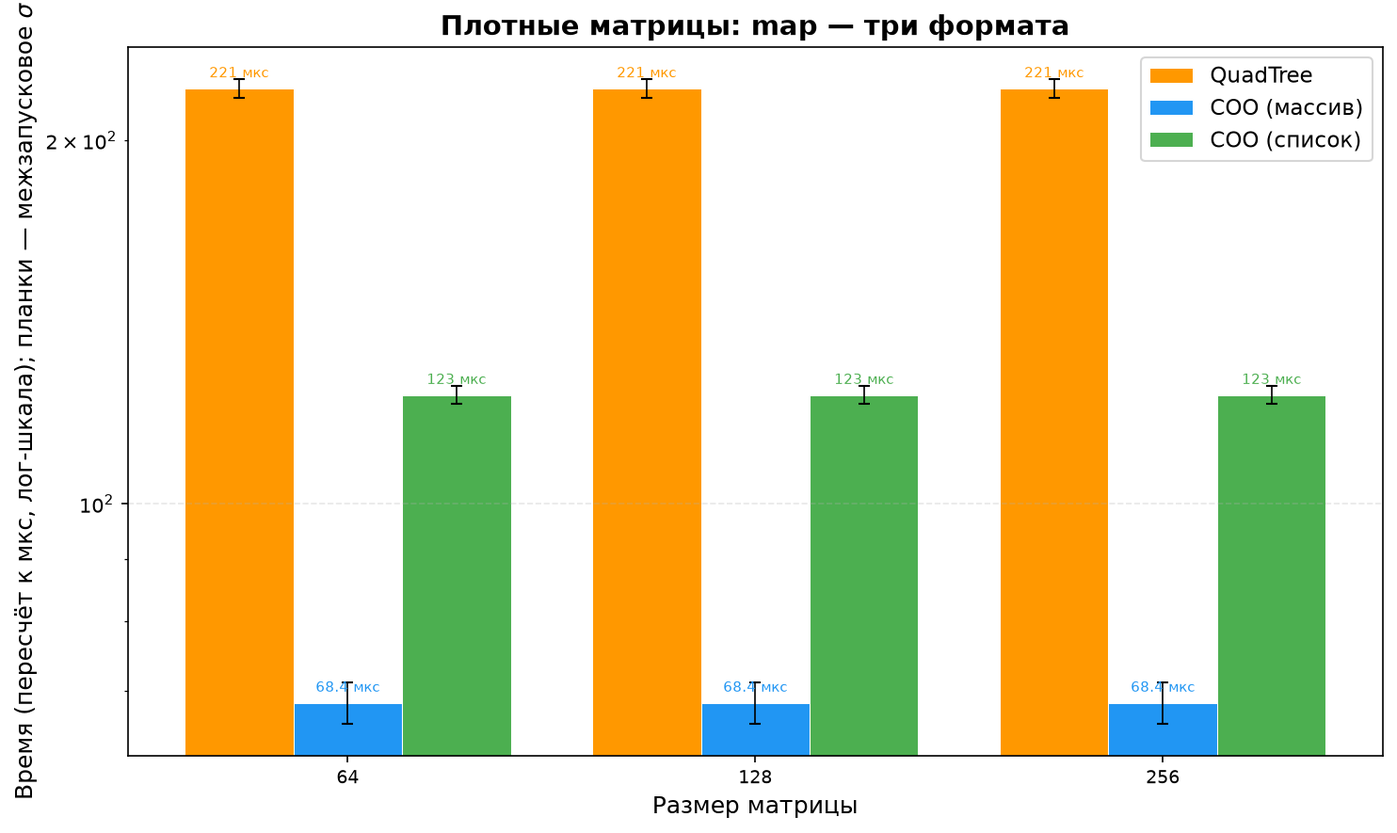
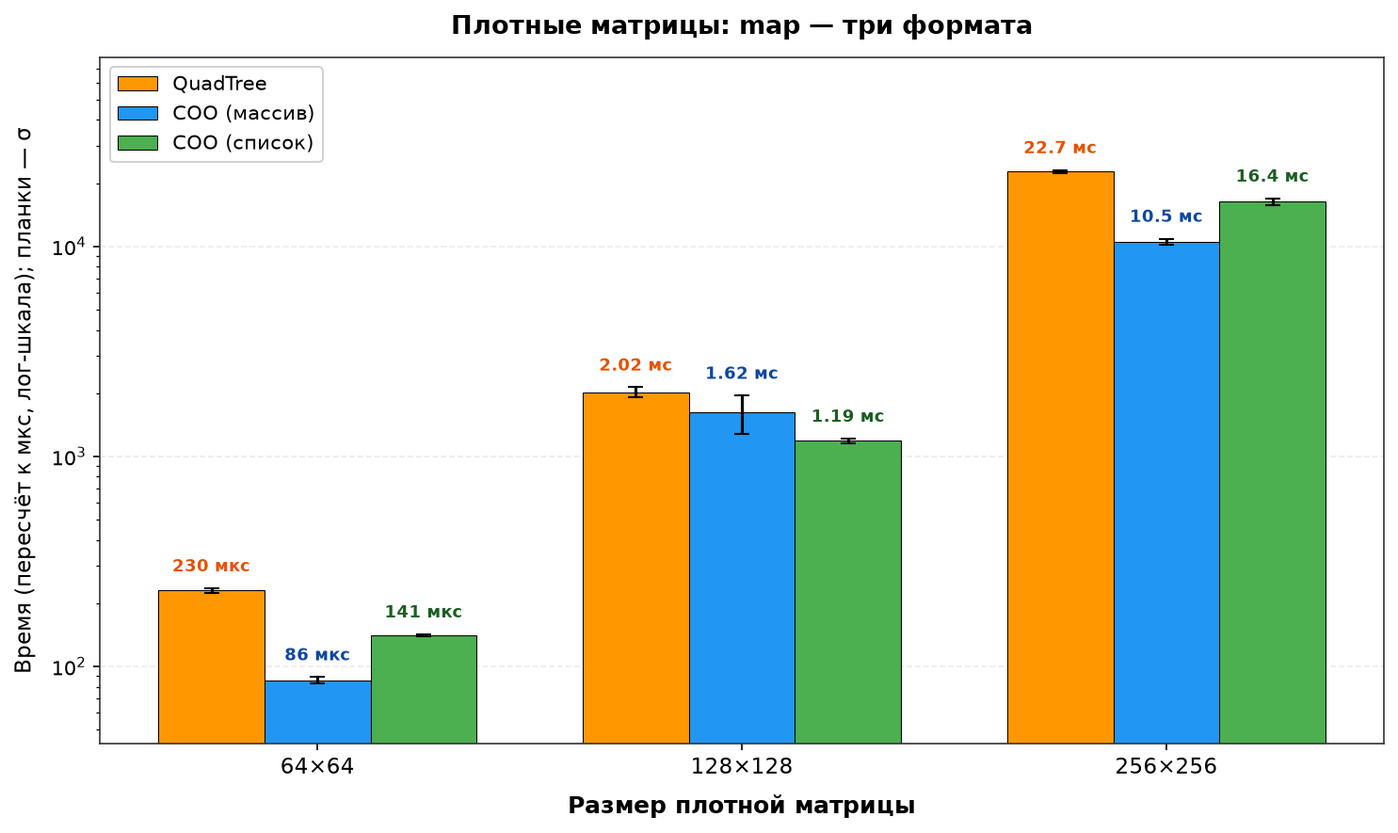
docs: update practice report and benchmark figures

Changed region(s): [[0.0, 0.0, 0.9919, 0.9763], [0.062, 0.5797, 0.093, 0.6407], [0.062, 0.3051, 0.093, 0.3356]]

diff --git a/Sergej_Narysev/Sergej_Narysev_report.tex b/Sergej_Narysev/Sergej_Narysev_report.tex
@@ -1,4 +1,4 @@
-\documentclass[a4paper]{article}
+\documentclass[a4paper]{article}
 
 \usepackage[a4paper, top=8mm, bottom=8mm, left=8mm, right=8mm]{geometry}
 \usepackage{float}
@@ -226,12 +226,12 @@ Property-based тесты (проверяются на широком диапа
     \end{minipage}
 \end{figure}
 
-Результаты для матриц с плотностью~5\% имеют тот же характер, но абсолютные значения времени выше. На матрице $1024\times1024$ время \texttt{map} возрастает с $0{,}269$ до $8{,}58$\,мс (в 32 раза), \texttt{mxm}~--- с $76{,}9$ до $1908$\,мс (в 25 раз), а \texttt{mapi}~--- лишь с $13{,}3$ до $21{,}6$\,мс (в 1{,}6 раза), поскольку \texttt{mapi} обходит всю сетку $N^2$ независимо от числа ненулевых элементов. Из графиков для плотности~5\% приведён \texttt{mapi} (рис.~\ref{fig:sparse_mapi_5}); остальные опущены, чтобы не перегружать отчёт.
+Результаты для матриц с плотностью~5\% имеют тот же характер, но абсолютные значения времени выше. На матрице $1024\times1024$ время \texttt{map} возрастает с $0{,}244$ до $10{,}8$\,мс (в 44 раза), \texttt{mxm}~--- с $56{,}3$ до $1294$\,мс (в 23 раза), а \texttt{mapi}~--- лишь с $10{,}4$ до $24{,}6$\,мс (в 2{,}4 раза), поскольку \texttt{mapi} обходит всю сетку $N^2$ независимо от числа ненулевых элементов. Из графиков для плотности~5\% приведён \texttt{mapi} (рис.~\ref{fig:sparse_mapi_5}); остальные опущены, чтобы не перегружать отчёт.
 
 По результатам измерений на разреженных синтетических матрицах:
 \begin{itemize}
-    \item \textbf{\texttt{map}, \texttt{mapi}, \texttt{map2}, \texttt{map2i}, \texttt{mxm}:} COO на массиве быстрее quadtree во всех случаях. На матрице $1024\times1024$ с плотностью~1\% COO быстрее в операции \texttt{map} в 120 раз ($0{,}269 \pm 0{,}057$\,мс против $32{,}4 \pm 14$\,мс), в \texttt{mapi}~--- в 8,1 раза ($13{,}3 \pm 4{,}2$\,мс против $107 \pm 42$\,мс), в \texttt{map2}~--- в 8,1 раза ($7{,}76 \pm 2{,}7$\,мс против $63{,}1 \pm 12$\,мс), в \texttt{map2i}~--- в 10,5 раза ($15{,}7 \pm 2{,}3$\,мс против $165 \pm 54$\,мс), в \texttt{mxm}~--- в 101 раз ($76{,}9 \pm 9{,}4$\,мс против $7{,}76 \pm 0{,}89$\,с). Группировка троек по строкам в \texttt{mxmcoo} даёт перебор только ненулевых пар, число которых равно $k$ (лемма 5), тогда как рекурсивный алгоритм quadtree в таких данных почти не получает выигрыша от конденсации.
-    \item \textbf{\texttt{get} и \texttt{set}:} quadtree быстрее, но после перехода COO на бинарный поиск разрыв по \texttt{get} практически исчез. На матрице $1024\times1024$ с плотностью~1\% \texttt{get} сопоставимы: $32{,}4 \pm 4{,}7$\,мкс у quadtree против $34{,}5 \pm 3{,}8$\,мкс у COO (quadtree быстрее лишь в 1,06 раза, то есть в пределах межзапускового разброса). Для \texttt{set} quadtree быстрее в 12,8 раза ($0{,}374 \pm 0{,}045$\,мс против $4{,}77 \pm 0{,}94$\,мс). Ожидаемо: доступ и обновление в дереве выполняются за $O(\log N)$, тогда как COO выполняет бинарный поиск по отсортированному массиву за $O(\log n)$, а обновление дополнительно требует копирования массива и сдвига за $O(n)$.
+    \item \textbf{\texttt{map}, \texttt{mapi}, \texttt{map2}, \texttt{map2i}, \texttt{mxm}:} COO на массиве быстрее quadtree во всех случаях. На матрице $1024\times1024$ с плотностью~1\% COO быстрее в операции \texttt{map} в 127 раз ($0{,}244 \pm 0{,}035$\,мс против $30{,}9 \pm 3{,}5$\,мс), в \texttt{mapi}~--- в 12,3 раза ($10{,}4 \pm 1{,}1$\,мс против $128 \pm 7{,}8$\,мс), в \texttt{map2}~--- в 15,2 раза ($4{,}10 \pm 0{,}39$\,мс против $62{,}2 \pm 6{,}7$\,мс), в \texttt{map2i}~--- в 10,6 раза ($16{,}0 \pm 0{,}53$\,мс против $169 \pm 25$\,мс), в \texttt{mxm}~--- в 161 раз ($56{,}3 \pm 10{,}0$\,мс против $9{,}05 \pm 2{,}01$\,с). Группировка троек по строкам в \texttt{mxmcoo} даёт перебор только ненулевых пар, число которых равно $k$ (лемма 5), тогда как рекурсивный алгоритм quadtree в таких данных почти не получает выигрыша от конденсации.
+    \item \textbf{\texttt{get} и \texttt{set}:} quadtree быстрее, но после перехода COO на бинарный поиск разрыв по \texttt{get} практически исчез. На матрице $1024\times1024$ с плотностью~1\% \texttt{get} сопоставимы: $35{,}6 \pm 1{,}4$\,мкс у quadtree против $34{,}3 \pm 7{,}5$\,мкс у COO (сопоставимы, COO быстрее лишь в 1,04 раза, то есть в пределах межзапускового разброса). Для \texttt{set} quadtree быстрее в 12,6 раза ($0{,}401 \pm 0{,}012$\,мс против $5{,}05 \pm 0{,}43$\,мс). Ожидаемо: доступ и обновление в дереве выполняются за $O(\log N)$, тогда как COO выполняет бинарный поиск по отсортированному массиву за $O(\log n)$, а обновление дополнительно требует копирования массива и сдвига за $O(n)$.
 \end{itemize}
 
 \subsection{Эксперимент~2: Плотные матрицы}
@@ -276,7 +276,7 @@ Property-based тесты (проверяются на широком диапа
     \end{minipage}
 \end{figure}
 
-На плотных данных проявляется специализация форматов. В операциях \texttt{get}, \texttt{set} и \texttt{mxm} quadtree быстрее COO. На матрице $256\times256$ \texttt{get} сопоставимы: $2{,}68 \pm 0{,}24$\,мс у quadtree против $3{,}61 \pm 0{,}19$\,мс у COO (в 1,35 раза): quadtree спускается по $\log N$ уровням, а COO~--- по $\log n$ троек. Операция \texttt{set} в COO пересоздаёт отсортированный массив при каждом обновлении (копирование и вставка со сдвигом за $O(n)$): на $256\times256$~--- $18{,}6 \pm 0{,}59$\,мс у quadtree против $8{,}00 \pm 0{,}24$\,с у COO (в 430 раз). В операции \texttt{mxm} quadtree также быстрее: $1{,}50 \pm 0{,}06$\,с у quadtree против $11{,}7 \pm 0{,}6$\,с у COO (в 7,8 раза)~--- деление на подматрицы и конденсация окупаются на плотной структуре. Напротив, в операциях \texttt{map} и \texttt{mapi} COO на массиве быстрее: на $256\times256$~--- $9{,}37 \pm 0{,}23$\,мс у COO против $19{,}1 \pm 0{,}42$\,мс у quadtree (в 2,0 раза) и $11{,}6 \pm 0{,}32$\,мс у COO против $19{,}8 \pm 1{,}2$\,мс у quadtree (в 1,7 раза) соответственно. При этом COO на списке в этих операциях лишь немного медленнее массива ($13{,}8 \pm 0{,}32$\,мс и $13{,}0 \pm 0{,}23$\,мс), но проигрывает в \texttt{get} в 715 раз и в \texttt{set} в 40 раз ($2{,}59 \pm 0{,}011$\,с и $320 \pm 5{,}6$\,с соответственно). При полной плотности quadtree вынужден хранить и обходить почти все $N^2$ листьев, что сводит на нет преимущество конденсации, тогда как COO обрабатывает $n=N^2$ троек с меньшими константными накладными расходами.
+На плотных данных проявляется специализация форматов. В операциях \texttt{get}, \texttt{set} и \texttt{mxm} quadtree быстрее COO. На матрице $256\times256$ \texttt{get} сопоставимы: $2{,}46 \pm 0{,}07$\,мс у quadtree против $2{,}95 \pm 0{,}03$\,мс у COO (в 1,20 раза): quadtree спускается по $\log N$ уровням, а COO~--- по $\log n$ троек. Операция \texttt{set} в COO пересоздаёт отсортированный массив при каждом обновлении (копирование и вставка со сдвигом за $O(n)$): на $256\times256$~--- $19{,}5 \pm 0{,}45$\,мс у quadtree против $8{,}19 \pm 0{,}45$\,с у COO (в 420 раз). В операции \texttt{mxm} quadtree также быстрее: $2{,}07 \pm 0{,}03$\,с у quadtree против $7{,}55 \pm 0{,}09$\,с у COO (в 3,65 раза)~--- деление на подматрицы и конденсация окупаются на плотной структуре. Напротив, в операциях \texttt{map} и \texttt{mapi} COO на массиве быстрее: на $256\times256$~--- $10{,}5 \pm 0{,}35$\,мс у COO против $22{,}7 \pm 0{,}43$\,мс у quadtree (в 2,15 раза) и $10{,}7 \pm 0{,}47$\,мс у COO против $25{,}4 \pm 0{,}82$\,мс у quadtree (в 2,37 раза) соответственно. При этом COO на списке в этих операциях лишь немного медленнее массива ($16{,}4 \pm 0{,}59$\,мс и $17{,}4 \pm 0{,}62$\,мс), но проигрывает в \texttt{get} в 867 раз и в \texttt{set} в 73 раза ($2{,}56 \pm 0{,}04$\,с и $599 \pm 32$\,с соответственно). При полной плотности quadtree вынужден хранить и обходить почти все $N^2$ листьев, что сводит на нет преимущество конденсации, тогда как COO обрабатывает $n=N^2$ троек с меньшими константными накладными расходами.
 
 \subsection{Эксперимент~3: Реальные матрицы}
 
@@ -342,25 +342,25 @@ Property-based тесты (проверяются на широком диапа
         \toprule
         Сценарий & Операция & Quadtree & COO на массиве & COO на списке \\
         \midrule
-        Синтетическая $1024\times1024$,~1\% & \texttt{get} & $32{,}4 \pm 4{,}7$\,мкс & $34{,}5 \pm 3{,}8$\,мкс & $575 \pm 68$\,мкс \\
-                                           & \texttt{set} & $374 \pm 45$\,мкс & $4{,}77 \pm 0{,}94$\,мс & $166 \pm 30$\,мс \\
-        Плотная $256\times256$              & \texttt{get} & $2{,}68 \pm 0{,}24$\,мс & $3{,}61 \pm 0{,}19$\,мс & $2{,}59 \pm 0{,}011$\,с \\
-                                           & \texttt{set} & $18{,}6 \pm 0{,}59$\,мс & $8{,}00 \pm 0{,}24$\,с & $320 \pm 5{,}6$\,с \\
-        Реальная 494\_bus ($n=2160$)         & \texttt{get} & $21{,}9 \pm 1{,}7$\,мкс & $32{,}2 \pm 2{,}6$\,мкс & $1{,}09 \pm 0{,}026$\,мс \\
-                                           & \texttt{set} & $330 \pm 14$\,мкс & $1{,}37 \pm 0{,}25$\,мс & $35{,}2 \pm 2{,}7$\,мс \\
-        Реальная zenios ($n=30064$)         & \texttt{get} & $59{,}9 \pm 9{,}2$\,мкс & $62{,}8 \pm 9{,}8$\,мкс & $21{,}0 \pm 1{,}6$\,мс \\
-                                           & \texttt{set} & $621 \pm 120$\,мкс & $95{,}1 \pm 2{,}2$\,мс & $1{,}53 \pm 0{,}28$\,с \\
+        Синтетическая $1024\times1024$,~1\% & \texttt{get} & $35{,}6 \pm 1{,}4$\,мкс & $34{,}3 \pm 7{,}5$\,мкс & $644 \pm 64$\,мкс \\
+                                           & \texttt{set} & $401 \pm 12$\,мкс & $5{,}05 \pm 0{,}43$\,мс & $347 \pm 45$\,мс \\
+        Плотная $256\times256$              & \texttt{get} & $2{,}46 \pm 0{,}07$\,мс & $2{,}95 \pm 0{,}03$\,мс & $2{,}56 \pm 0{,}04$\,с \\
+                                           & \texttt{set} & $19{,}5 \pm 0{,}45$\,мс & $8{,}19 \pm 0{,}45$\,с & $599 \pm 32$\,с \\
+        Реальная 494\_bus ($n=2160$)         & \texttt{get} & $27{,}9 \pm 4{,}1$\,мкс & $24{,}3 \pm 6{,}6$\,мкс & $1{,}05 \pm 0{,}14$\,мс \\
+                                           & \texttt{set} & $352 \pm 18$\,мкс & $1{,}37 \pm 0{,}82$\,мс & $56{,}1 \pm 51{,}9$\,мс \\
+        Реальная zenios ($n=30064$)         & \texttt{get} & $64{,}0 \pm 3{,}3$\,мкс & $54{,}3 \pm 8{,}3$\,мкс & $17{,}1 \pm 2{,}35$\,мс \\
+                                           & \texttt{set} & $606 \pm 130$\,мкс & $71{,}7 \pm 26{,}8$\,мс & $2{,}34 \pm 1{,}74$\,с \\
         \bottomrule
     \end{tabular}
 \end{table}
 
-Для \texttt{get} массив практически догоняет quadtree (разница 1,05--1,8 раза), тогда как список на больших $n$ отстаёт от массива в сотни раз (на zenios~--- в 335 раз, на плотной $256\times256$~--- в 715 раз, на dwt\_992~--- в 262 раза): у связного списка нет произвольного доступа, поэтому бинарный поиск невозможен. При малых $n$ (bcspwr01) и эта разница невелика (в 4,9 раза), то есть и для самых маленьких матриц список остаётся медленнее массива.
+Для \texttt{get} массив практически сопоставим с quadtree (разница 0,66--1,18 раза), тогда как список на больших $n$ отстаёт от массива в сотни раз (на zenios~--- в 315 раз, на плотной $256\times256$~--- в 867 раз, на dwt\_992~--- в 229 раз): у связного списка нет произвольного доступа, поэтому бинарный поиск невозможен. При малых $n$ (bcspwr01) и эта разница меньше (в 5,2 раза), но и для самых маленьких матриц список остаётся медленнее массива.
 
-Для \texttt{set} картина противоположна ожиданиям для связного списка. Пересборка COO на массиве хотя и требует $O(n)$ на обновление, но выполняется плотным копированием блоков памяти (\texttt{Array.copy} и \texttt{Array.blit}) без накладных расходов на каждую ячейку, тогда как список пересобирается поштучно. Поэтому массив быстрее списка во всех сценариях: на реальных матрицах~--- в 4,8--40 раз (минимально на cryg2500, максимально на jagmesh7), на синтетической матрице $1024\times1024$ с плотностью~1\%~--- в 35 раз ($4{,}77$ против $166$\,мс), на плотной $256\times256$~--- в 40 раз ($8{,}00$ против $320$\,с). Таким образом, для \texttt{set} выбор представления однозначен в пользу массива: преимущество списка, предполагавшееся из-за отсутствия копирования блоков памяти, на измерениях не подтвердилось. Сравнение с quadtree остаётся в пользу дерева на девяти из десяти реальных матриц~--- от 3,0 раза (arc130) до 204 раз (dwt\_992), исключение~--- самая маленькая матрица bcspwr01, где COO быстрее в 1,07 раза; на синтетике quadtree быстрее в 12,8 раза, на плотной матрице~--- в 430 раз.
+Для \texttt{set} картина противоположна ожиданиям для связного списка. Пересборка COO на массиве хотя и требует $O(n)$ на обновление, но выполняется плотным копированием блоков памяти (\texttt{Array.copy} и \texttt{Array.blit}) без накладных расходов на каждую ячейку, тогда как список пересобирается поштучно. Поэтому массив быстрее списка во всех сценариях: на реальных матрицах~--- в 20--56 раз (минимально на cryg2500, максимально на jagmesh7), на синтетической матрице $1024\times1024$ с плотностью~1\%~--- в 69 раз ($5{,}05$ против $347$\,мс), на плотной $256\times256$~--- в 73 раза ($8{,}19$ против $599$\,с). Таким образом, для \texttt{set} выбор представления однозначен в пользу массива: преимущество списка, предполагавшееся из-за отсутствия копирования блоков памяти, на измерениях не подтвердилось. Сравнение с quadtree остаётся в пользу дерева на девяти из десяти реальных матриц~--- от 3,8 раза (arc130) до 118 раз (zenios), исключение~--- самая маленькая матрица bcspwr01, где COO быстрее в 1,11 раза; на синтетике quadtree быстрее в 12,6 раза, на плотной матрице~--- в 420 раз.
 
 Полная картина по всем реальным матрицам SuiteSparse для \texttt{get} и \texttt{set} приведена на рис.~\ref{fig:real_get} и~\ref{fig:real_set}: на каждом графике сравниваются сразу три реализации (quadtree, COO на массиве и COO на списке).
 
-В операциях отображения~--- \texttt{map}, \texttt{mapi}, \texttt{map2}, \texttt{map2i},~--- бинарный поиск не используется, и асимптотика обеих версий одинакова: они обходят одни и те же тройки. На практике списочная версия медленнее: на синтетике в 1,2--2,2 раза (табл.~\ref{tab:array_vs_list_format}), на реальных матрицах в 1,2--1,5 раза для \texttt{mapi}; для \texttt{map} на реальных матрицах отношение лежит в диапазоне 0,4--2,1 раза, причём на dwt\_992, cryg2500 и zenios список оказывается быстрее массива. Исключение~--- \texttt{map2} при плотности~1\%, где список быстрее массива в 1,2 раза. На \texttt{mxm} разрыв также велик: 3,5--4,0 раза на синтетике и 1,9--4,9 раза на реальных матрицах; наибольший разрос между представлениями возникает всё же в \texttt{get} (до 715 раз на плотной матрице), поскольку там линейный поиск вынужден проходить по всей длине списка. Причина~--- пересборка списков: каждый результат собирается обходом по указателям с выделением новых ячеек, тогда как массивная версия накапливает результат в динамический массив и сортирует его на месте.
+В операциях отображения~--- \texttt{map}, \texttt{mapi}, \texttt{map2}, \texttt{map2i},~--- бинарный поиск не используется, и асимптотика обеих версий одинакова: они обходят одни и те же тройки. На практике списочная версия медленнее в большинстве случаев: на синтетике в 1,3--2,5 раза (табл.~\ref{tab:array_vs_list_format}), на реальных матрицах для \texttt{map} отношение лежит в диапазоне 0,6--2,8 раза, причём на dwt\_992, cryg2500 и zenios список оказывается быстрее массива. Исключение на синтетике~--- \texttt{mapi} и \texttt{map2} при плотности~1\%, где список быстрее массива в 1,3--1,4 раза. На \texttt{mxm} разрыв также сохраняется: 1,9--2,2 раза на синтетике и 1,6--2,0 раза на реальных матрицах; наибольший разрыв между представлениями возникает всё же в \texttt{get} (до 867 раз на плотной матрице), поскольку там линейный поиск вынужден проходить по всей длине списка. Причина~--- пересборка списков: каждый результат собирается обходом по указателям с выделением новых ячеек, тогда как массивная версия накапливает результат в динамический массив и сортирует его на месте.
 
 \begin{table}[H]
     \centering
@@ -373,16 +373,16 @@ Property-based тесты (проверяются на широком диапа
         \cmidrule(lr){2-4} \cmidrule(lr){5-7}
         & массив & список & отн. & массив & список & отн. \\
         \midrule
-        \texttt{map}   & $0{,}269 \pm 0{,}057$ & $0{,}579 \pm 0{,}12$ & 2,16 & $8{,}58 \pm 1{,}06$ & $11{,}0 \pm 1{,}29$ & 1,28 \\
-        \texttt{mapi}  & $13{,}3 \pm 4{,}2$ & $16{,}0 \pm 3{,}4$ & 1,20 & $21{,}6 \pm 3{,}4$ & $27{,}6 \pm 2{,}0$ & 1,28 \\
-        \texttt{map2}  & $7{,}76 \pm 2{,}7$ & $6{,}34 \pm 0{,}81$ & 0,82 & $37{,}1 \pm 5{,}9$ & $51{,}2 \pm 4{,}2$ & 1,38 \\
-        \texttt{map2i} & $15{,}7 \pm 2{,}3$ & $19{,}5 \pm 2{,}8$ & 1,24 & $35{,}0 \pm 3{,}2$ & $49{,}8 \pm 6{,}7$ & 1,42 \\
-        \texttt{mxm}   & $76{,}9 \pm 9{,}4$ & $309 \pm 27$ & 4,02 & $1908 \pm 373$ & $6733 \pm 1020$ & 3,53 \\
+        \texttt{map}   & $0{,}244 \pm 0{,}035$ & $0{,}600 \pm 0{,}048$ & 2,46 & $10{,}8 \pm 3{,}30$ & $16{,}1 \pm 3{,}81$ & 1,49 \\
+        \texttt{mapi}  & $10{,}4 \pm 1{,}10$ & $7{,}34 \pm 0{,}68$ & 0,71 & $24{,}6 \pm 6{,}76$ & $20{,}3 \pm 4{,}25$ & 0,83 \\
+        \texttt{map2}  & $4{,}10 \pm 0{,}39$ & $3{,}21 \pm 0{,}19$ & 0,78 & $26{,}4 \pm 4{,}91$ & $54{,}2 \pm 22{,}2$ & 2,05 \\
+        \texttt{map2i} & $16{,}0 \pm 0{,}53$ & $9{,}61 \pm 0{,}43$ & 0,60 & $36{,}6 \pm 2{,}65$ & $47{,}6 \pm 11{,}9$ & 1,30 \\
+        \texttt{mxm}   & $56{,}3 \pm 10{,}0$ & $107 \pm 15{,}2$ & 1,90 & $1294 \pm 227$ & $2889 \pm 1101$ & 2,23 \\
         \bottomrule
     \end{tabular}
 \end{table}
 
-Особый случай~--- умножение матриц (\texttt{mxm}). Алгоритм \texttt{mxmcoo} группирует тройки по строкам и сортирует результат (сложность $O(n_1\log n_2 + k\log(k+1))$ в худшем случае, лемма 5); начало строки в массиве троек матрицы $B$ при этом находится бинарным поиском, однако стоимость пересборки сказывается и здесь: массивная версия накапливает продукты в динамический массив с последующей сортировкой, списочная строит промежуточное отображение Map и применяет группировку списков. Поэтому на \texttt{mxm} выбор представления влияет заметно: на синтетике список медленнее в 3,5--4,0 раза (табл.~\ref{tab:array_vs_list_format}), на реальных матрицах~--- в 1,9--4,9 раза (рис.~\ref{fig:real_mxm}).
+Особый случай~--- умножение матриц (\texttt{mxm}). Алгоритм \texttt{mxmcoo} группирует тройки по строкам и сортирует результат (сложность $O(n_1\log n_2 + k\log(k+1))$ в худшем случае, лемма 5); начало строки в массиве троек матрицы $B$ при этом находится бинарным поиском, однако стоимость пересборки сказывается и здесь: массивная версия накапливает продукты в динамический массив с последующей сортировкой, списочная строит промежуточное отображение Map и применяет группировку списков. Поэтому на \texttt{mxm} выбор представления влияет заметно: на синтетике список медленнее в 1,9--2,2 раза (табл.~\ref{tab:array_vs_list_format}), на реальных матрицах~--- в 1,6--2,0 раза (рис.~\ref{fig:real_mxm}).
 
 
 \section{Анализ асимптотической сложности}
@@ -448,10 +448,10 @@ COO упорядочивает $n$ троек за $O(n\log n)$ операций
 Основные наблюдения.
 
 \begin{enumerate}
-    \item \textbf{Операции \texttt{map} и \texttt{mapi}.} COO быстрее quadtree на всех десяти матрицах: в \texttt{map}~--- в 2,7--54 раза, в \texttt{mapi}~--- в 5,5--7,5 раз. При этом в \texttt{map} на трёх матрицах (dwt\_992, cryg2500, zenios) лучший результат даёт не массив, а список (в 1,4--2,7 раза быстрее массива), тогда как на остальных семи массив выигрывает в 1,5--2,1 раза. Причина~--- в структуре данных: COO обрабатывает только $n$ троек ($O(n)$), тогда как quadtree обходит узлы дерева ($O(T)$), причём на реальных матрицах $T$ близко к $N^2$, так что разница сводится к константе и объёму обхода. На самых маленьких матрицах ($N = 39$) накладные расходы рекурсии в quadtree перевешивают это преимущество.
-    \item \textbf{Операция \texttt{get}.} На массиве с бинарным поиском COO практически сравнялся с quadtree: на восьми матрицах из десяти quadtree быстрее в 1,05--1,8 раза, на cryg2500 COO быстрее в 1,11 раза, а на bcspwr06 результаты сопоставимы (в 1,01 раза). Благодаря доступу за $O(\log n)$ операция больше не зависит от числа троек так сильно, как в линейном варианте.
-    \item \textbf{Операция \texttt{set}.} Quadtree быстрее на девяти матрицах из десяти: от 3,0 (arc130) до 204 (dwt\_992). На самой маленькой матрице bcspwr01 COO оказывается быстрее в 1,07 раза. Обновление в quadtree~--- это $O(\log N)$, тогда как в COO каждое обновление пересоздаёт отсортированный массив со вставкой со сдвигом~--- $O(n)$; относительный разрыв растёт пропорционально $n$.
-    \item \textbf{Умножение матриц (\texttt{mxm}).} COO на массиве быстрее quadtree на всех десяти матрицах (в 2,7--199 раз), включая маленькую матрицу arc130 (в 2,7 раза). Разрежённый алгоритм \texttt{mxmcoo} выполняет группировку по строкам и перебор только ненулевых пар, то есть $\Theta(k\log k)$ операций, лемма 5, что эффективно для реальных матриц с умеренной плотностью и структурой почти без блочности. Рекурсивный алгоритм quadtree на разреженных реальных данных не получает достаточного выигрыша от конденсации поддеревьев.
+    \item \textbf{Операции \texttt{map} и \texttt{mapi}.} COO быстрее quadtree на всех десяти матрицах: в \texttt{map}~--- в 2,9--62 раза, в \texttt{mapi}~--- в 8,7--12,7 раз. При этом в \texttt{map} на трёх матрицах (dwt\_992, cryg2500, zenios) лучший результат даёт не массив, а список (в 1,1--1,7 раза быстрее массива), тогда как на остальных семи массив выигрывает в 2,3--2,8 раза. Причина~--- в структуре данных: COO обрабатывает только $n$ троек ($O(n)$), тогда как quadtree обходит узлы дерева ($O(T)$), причём на реальных матрицах $T$ близко к $N^2$, так что разница сводится к константе и объёму обхода. На самых маленьких матрицах ($N = 39$) накладные расходы рекурсии в quadtree перевешивают это преимущество.
+    \item \textbf{Операция \texttt{get}.} На массиве с бинарным поиском COO практически сравнялся с quadtree: на всех матрицах времена сопоставимы (различие укладывается в диапазон 0,7--1,7 раза; на половине матриц COO оказывается быстрее, на остальных быстрее quadtree). Благодаря доступу за $O(\log n)$ операция больше не зависит от числа троек так сильно, как в линейном варианте.
+    \item \textbf{Операция \texttt{set}.} Quadtree быстрее на девяти матрицах из десяти: от 3,8 (arc130) до 118 (zenios). На самой маленькой матрице bcspwr01 COO оказывается быстрее в 1,11 раза. Обновление в quadtree~--- это $O(\log N)$, тогда как в COO каждое обновление пересоздаёт отсортированный массив со вставкой со сдвигом~--- $O(n)$; относительный разрыв растёт пропорционально $n$.
+    \item \textbf{Умножение матриц (\texttt{mxm}).} COO на массиве быстрее quadtree на всех десяти матрицах (в 3,1--200 раз), включая маленькую матрицу arc130 (в 3,1 раза). Разрежённый алгоритм \texttt{mxmcoo} выполняет группировку по строкам и перебор только ненулевых пар, то есть $\Theta(k\log k)$ операций, лемма 5, что эффективно для реальных матриц с умеренной плотностью и структурой почти без блочности. Рекурсивный алгоритм quadtree на разреженных реальных данных не получает достаточного выигрыша от конденсации поддеревьев.
 \end{enumerate}
 
 \section{Заключение}
@@ -461,11 +461,11 @@ COO упорядочивает $n$ троек за $O(n\log n)$ операций
 \begin{itemize}
     \item Реализован модуль COO с операциями доступа, обновления, отображения и умножения матриц в формате Coordinate List.
     \item Реализованы функции преобразования между форматами COO и quadtree.
-    \item Написано 411 тестов: 404 модульных (из них 44~--- для модуля \texttt{COOArray} и 39~--- для модуля \texttt{COOList}) и 7 property-based на FsCheck. Все тесты проходят.
+    \item Написано 416 тестов: 409 модульных (из них 44~--- для модуля \texttt{COOArray} и 39~--- для модуля \texttt{COOList}) и 7 property-based на FsCheck. Все тесты проходят.
     \item Разработана инфраструктура измерения производительности на базе BenchmarkDotNet с методологией повторных измерений: каждая конфигурация измеряется в одном запуске процесса (LaunchCount=1) с пятью прогревочными и десятью измеряемыми итерациями, а вся конфигурация повторяется в пяти независимых запусках для оценки воспроизводимости.
     \item Проведён сравнительный анализ производительности форматов COO и quadtree на синтетических (разреженных и плотных) и десяти реальных матрицах из коллекции SuiteSparse.
-    \item Установлено, что на разрежённых данных COO эффективнее для операций \texttt{map}, \texttt{mapi}, \texttt{map2} и \texttt{mxm} (на реальных матрицах COO выигрывает умножение на всех десяти, а на плотных~--- наоборот, quadtree быстрее при \texttt{mxm} в 7,8 раза), тогда как quadtree эффективнее для \texttt{get} и \texttt{set} благодаря доступу за $O(\log N)$ против $O(\log n)$ (и $O(n)$ на вставку со сдвигом) в COO.
-    \item Реализованы две версии формата COO~--- на отсортированном массиве (модуль \texttt{COOArray}) и на связном списке (модуль \texttt{COOList})~--- и измерены их различия: для \texttt{get} выигрывает массив (бинарный поиск против линейного обхода, на больших $n$ в сотни раз), для \texttt{set} массив также быстрее списка в 4,8--40 раз (плотное копирование блоков памяти против поштучной пересборки списка), а в операциях \texttt{map}, \texttt{mapi}, \texttt{map2}, \texttt{map2i}, \texttt{mxm} списочная версия медленнее массива в 1,2--2,2 раза на отображении и в 1,9--4,9 раза на умножении (пересборка списков против накопления в массиве и сортировки). Исключение~--- \texttt{map} на трёх реальных матрицах (dwt\_992, cryg2500, zenios), где список быстрее массива в 1,4--2,7 раза.
+    \item Установлено, что на разрежённых данных COO эффективнее для операций \texttt{map}, \texttt{mapi}, \texttt{map2} и \texttt{mxm} (на реальных матрицах COO выигрывает умножение на всех десяти, а на плотных~--- наоборот, quadtree быстрее при \texttt{mxm} в 3,7 раза), тогда как quadtree эффективнее для \texttt{get} и \texttt{set} благодаря доступу за $O(\log N)$ против $O(\log n)$ (и $O(n)$ на вставку со сдвигом) в COO.
+    \item Реализованы две версии формата COO~--- на отсортированном массиве (модуль \texttt{COOArray}) и на связном списке (модуль \texttt{COOList})~--- и измерены их различия: для \texttt{get} выигрывает массив (бинарный поиск против линейного обхода, на больших $n$ в сотни раз), для \texttt{set} массив также быстрее списка в 20--56 раз (плотное копирование блоков памяти против поштучной пересборки списка), а в операциях \texttt{map}, \texttt{mapi}, \texttt{map2}, \texttt{map2i}, \texttt{mxm} списочная версия медленнее массива в большинстве случаев (в 1,3--2,5 раза на отображении и в 1,6--2,2 раза на умножении). Исключение~--- \texttt{map} на трёх реальных матрицах (dwt\_992, cryg2500, zenios), где список быстрее массива в 1,1--1,7 раза.
     \item Обоснованы асимптотические оценки операций для обоих форматов (разд.~\ref{sec:asympt}).
 \end{itemize}
 
